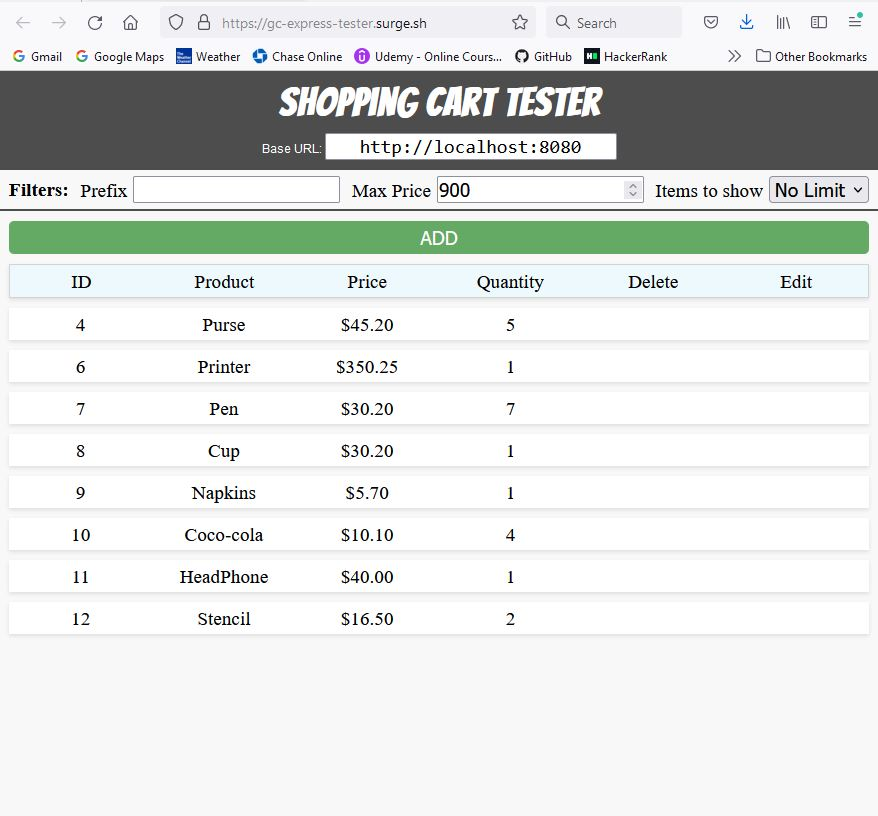
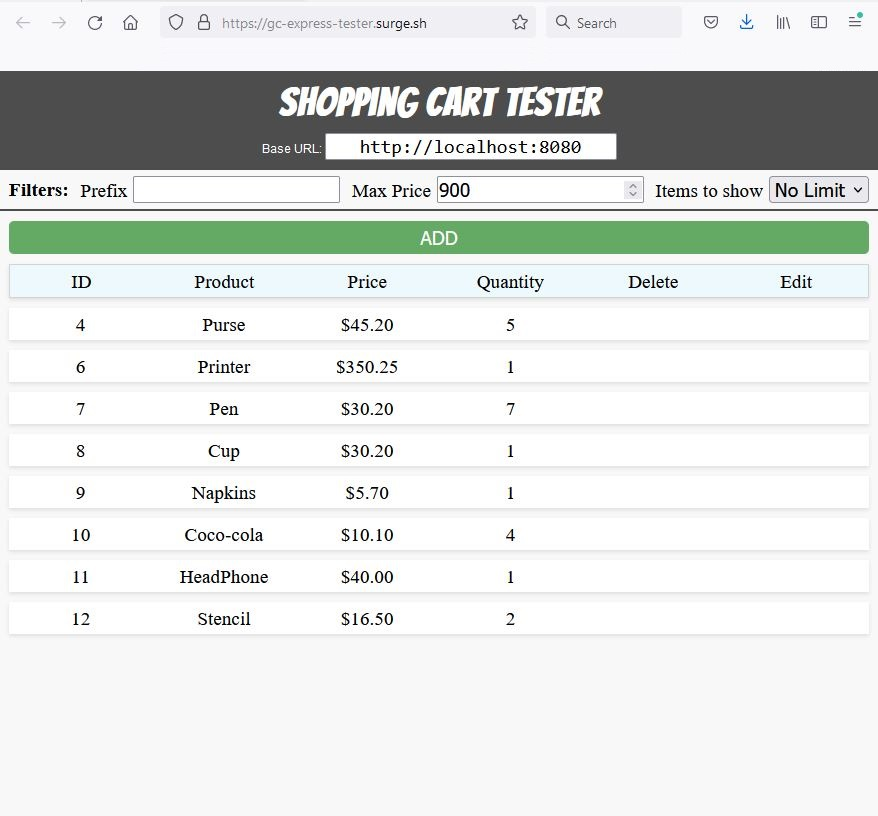
paging added with default to pagesize 5 and also tested using express tester

Changed region(s): [[0.0, 0.0613, 0.7688, 0.0919], [0.8303, 0.0613, 0.9841, 0.0919]]

diff --git a/src/main/java/co/grandcircus/cartapi/controller/CartController.java b/src/main/java/co/grandcircus/cartapi/controller/CartController.java
@@ -1,5 +1,6 @@
 package co.grandcircus.cartapi.controller;
 
+import java.net.http.HttpHeaders;
 import java.text.DecimalFormat;
 import java.util.ArrayList;
 import java.util.List;
@@ -7,6 +8,7 @@ import java.util.List;
 import javax.annotation.PostConstruct;
 
 import org.springframework.beans.factory.annotation.Autowired;
+import org.springframework.data.domain.Page;
 import org.springframework.data.domain.PageRequest;
 import org.springframework.data.domain.Pageable;
 import org.springframework.http.HttpStatus;
@@ -85,8 +87,12 @@ public class CartController {
 	@GetMapping("/cart-items")
 		public List<Cart> readAll (				
 			@RequestParam(required = false) String product,
-			@RequestParam(required = false) Double maxPrice)	{
+			@RequestParam(required = false) Double maxPrice,
+			@RequestParam(defaultValue = "0") Integer pageNo,
+            @RequestParam(defaultValue = "5") Integer pageSize)	{
 						
+			Pageable paging = PageRequest.of(pageNo, pageSize);
+		
 			if(product!= null) {
 				return cartRepo.findByProduct(product);
 			
@@ -103,7 +109,10 @@ public class CartController {
 				return itemsUnderMaxPrice;
 								
 			} else {
-				return cartRepo.findAll();
+				Page<Cart> list =  cartRepo.findAll(paging);
+			
+				return list.getContent();
+		//		return cartRepo.findAll();
 				}
 			}
 						

diff --git a/src/main/java/co/grandcircus/cartapi/repository/CartRepository.java b/src/main/java/co/grandcircus/cartapi/repository/CartRepository.java
@@ -10,4 +10,7 @@ public interface CartRepository extends JpaRepository<Cart, Long> {
 
 	List<Cart> findByProduct(String product);
 
+	
+
 }
+

diff --git a/readme.md b/readme.md
@@ -40,3 +40,4 @@ https://github.com/miraj00/Spring_data_MySQL-Cart_REST_API
 ![](/src/main/resources/static/cart-items.JPG) "Homepage"
 ![](/src/main/resources/static/Express-tester-with-CrossOrigin.JPG) "Express Tester Page"
 ![](/src/main/resources/static/Express-tester-with-CrossOrigin-MaxPrice.JPG) "Express tester with MaxPrice Page"
+![](/src/main/resources/static/Express-tester-with-CrossOrigin-Paging.JPG) "Express tester with Paging"
